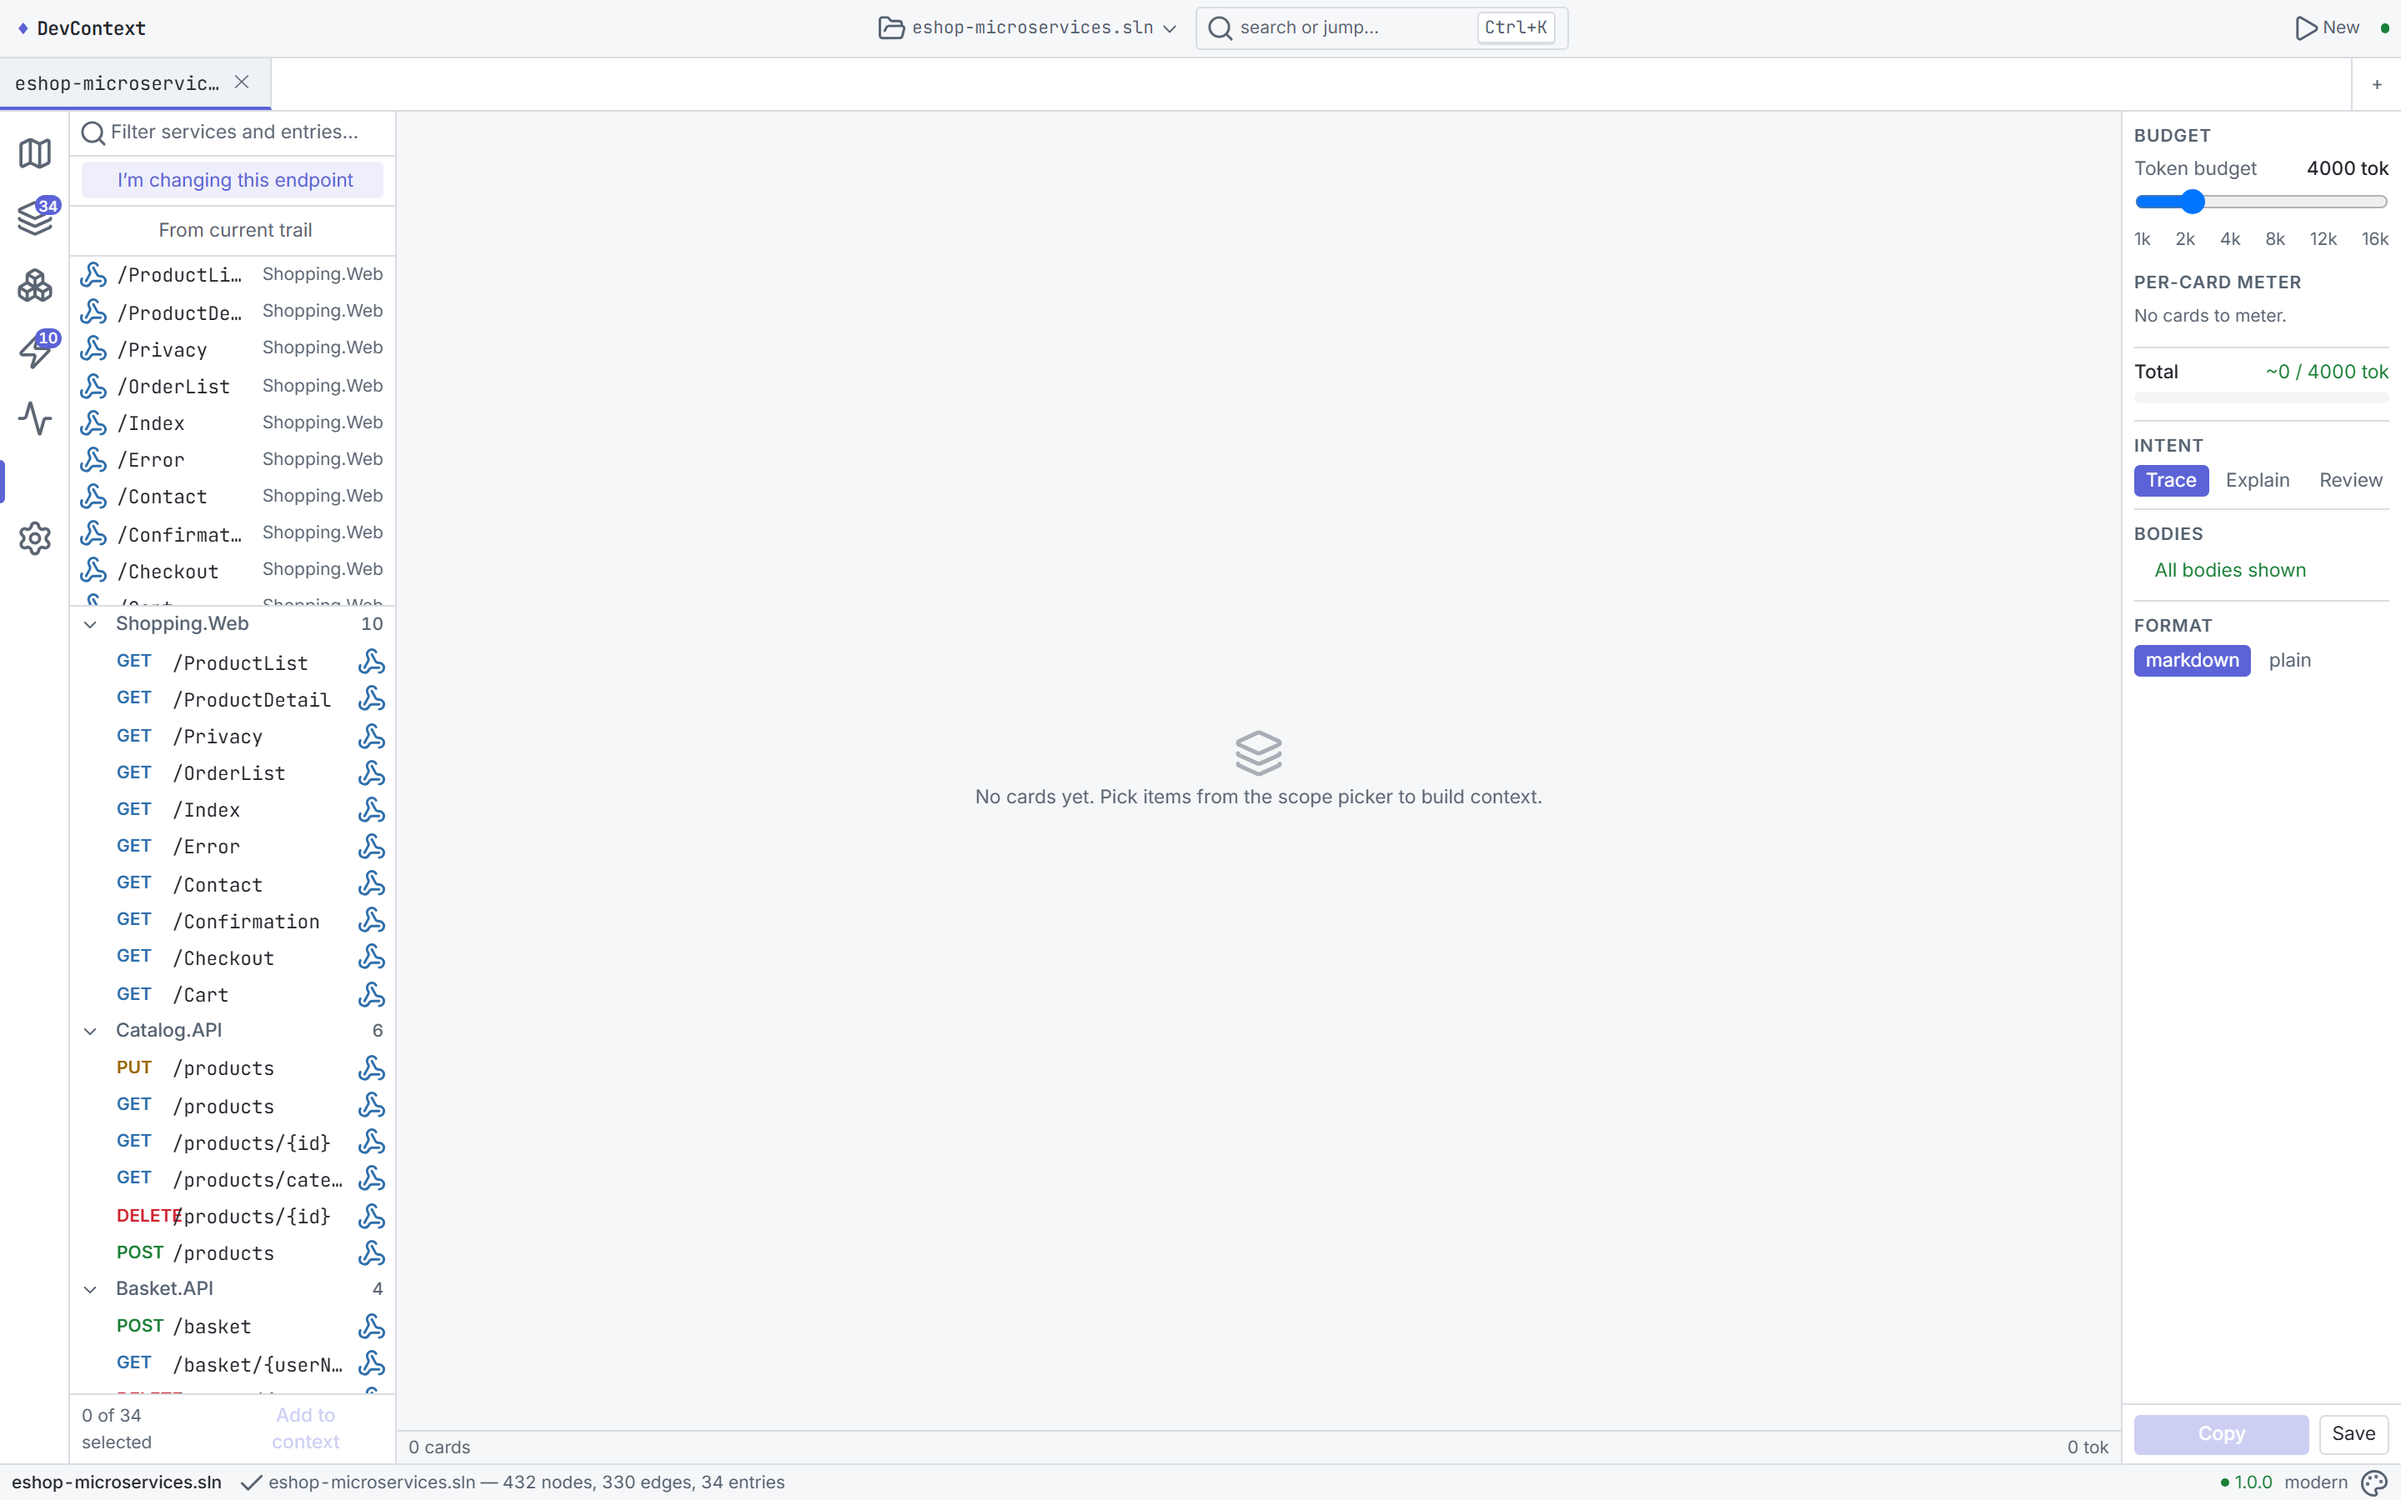
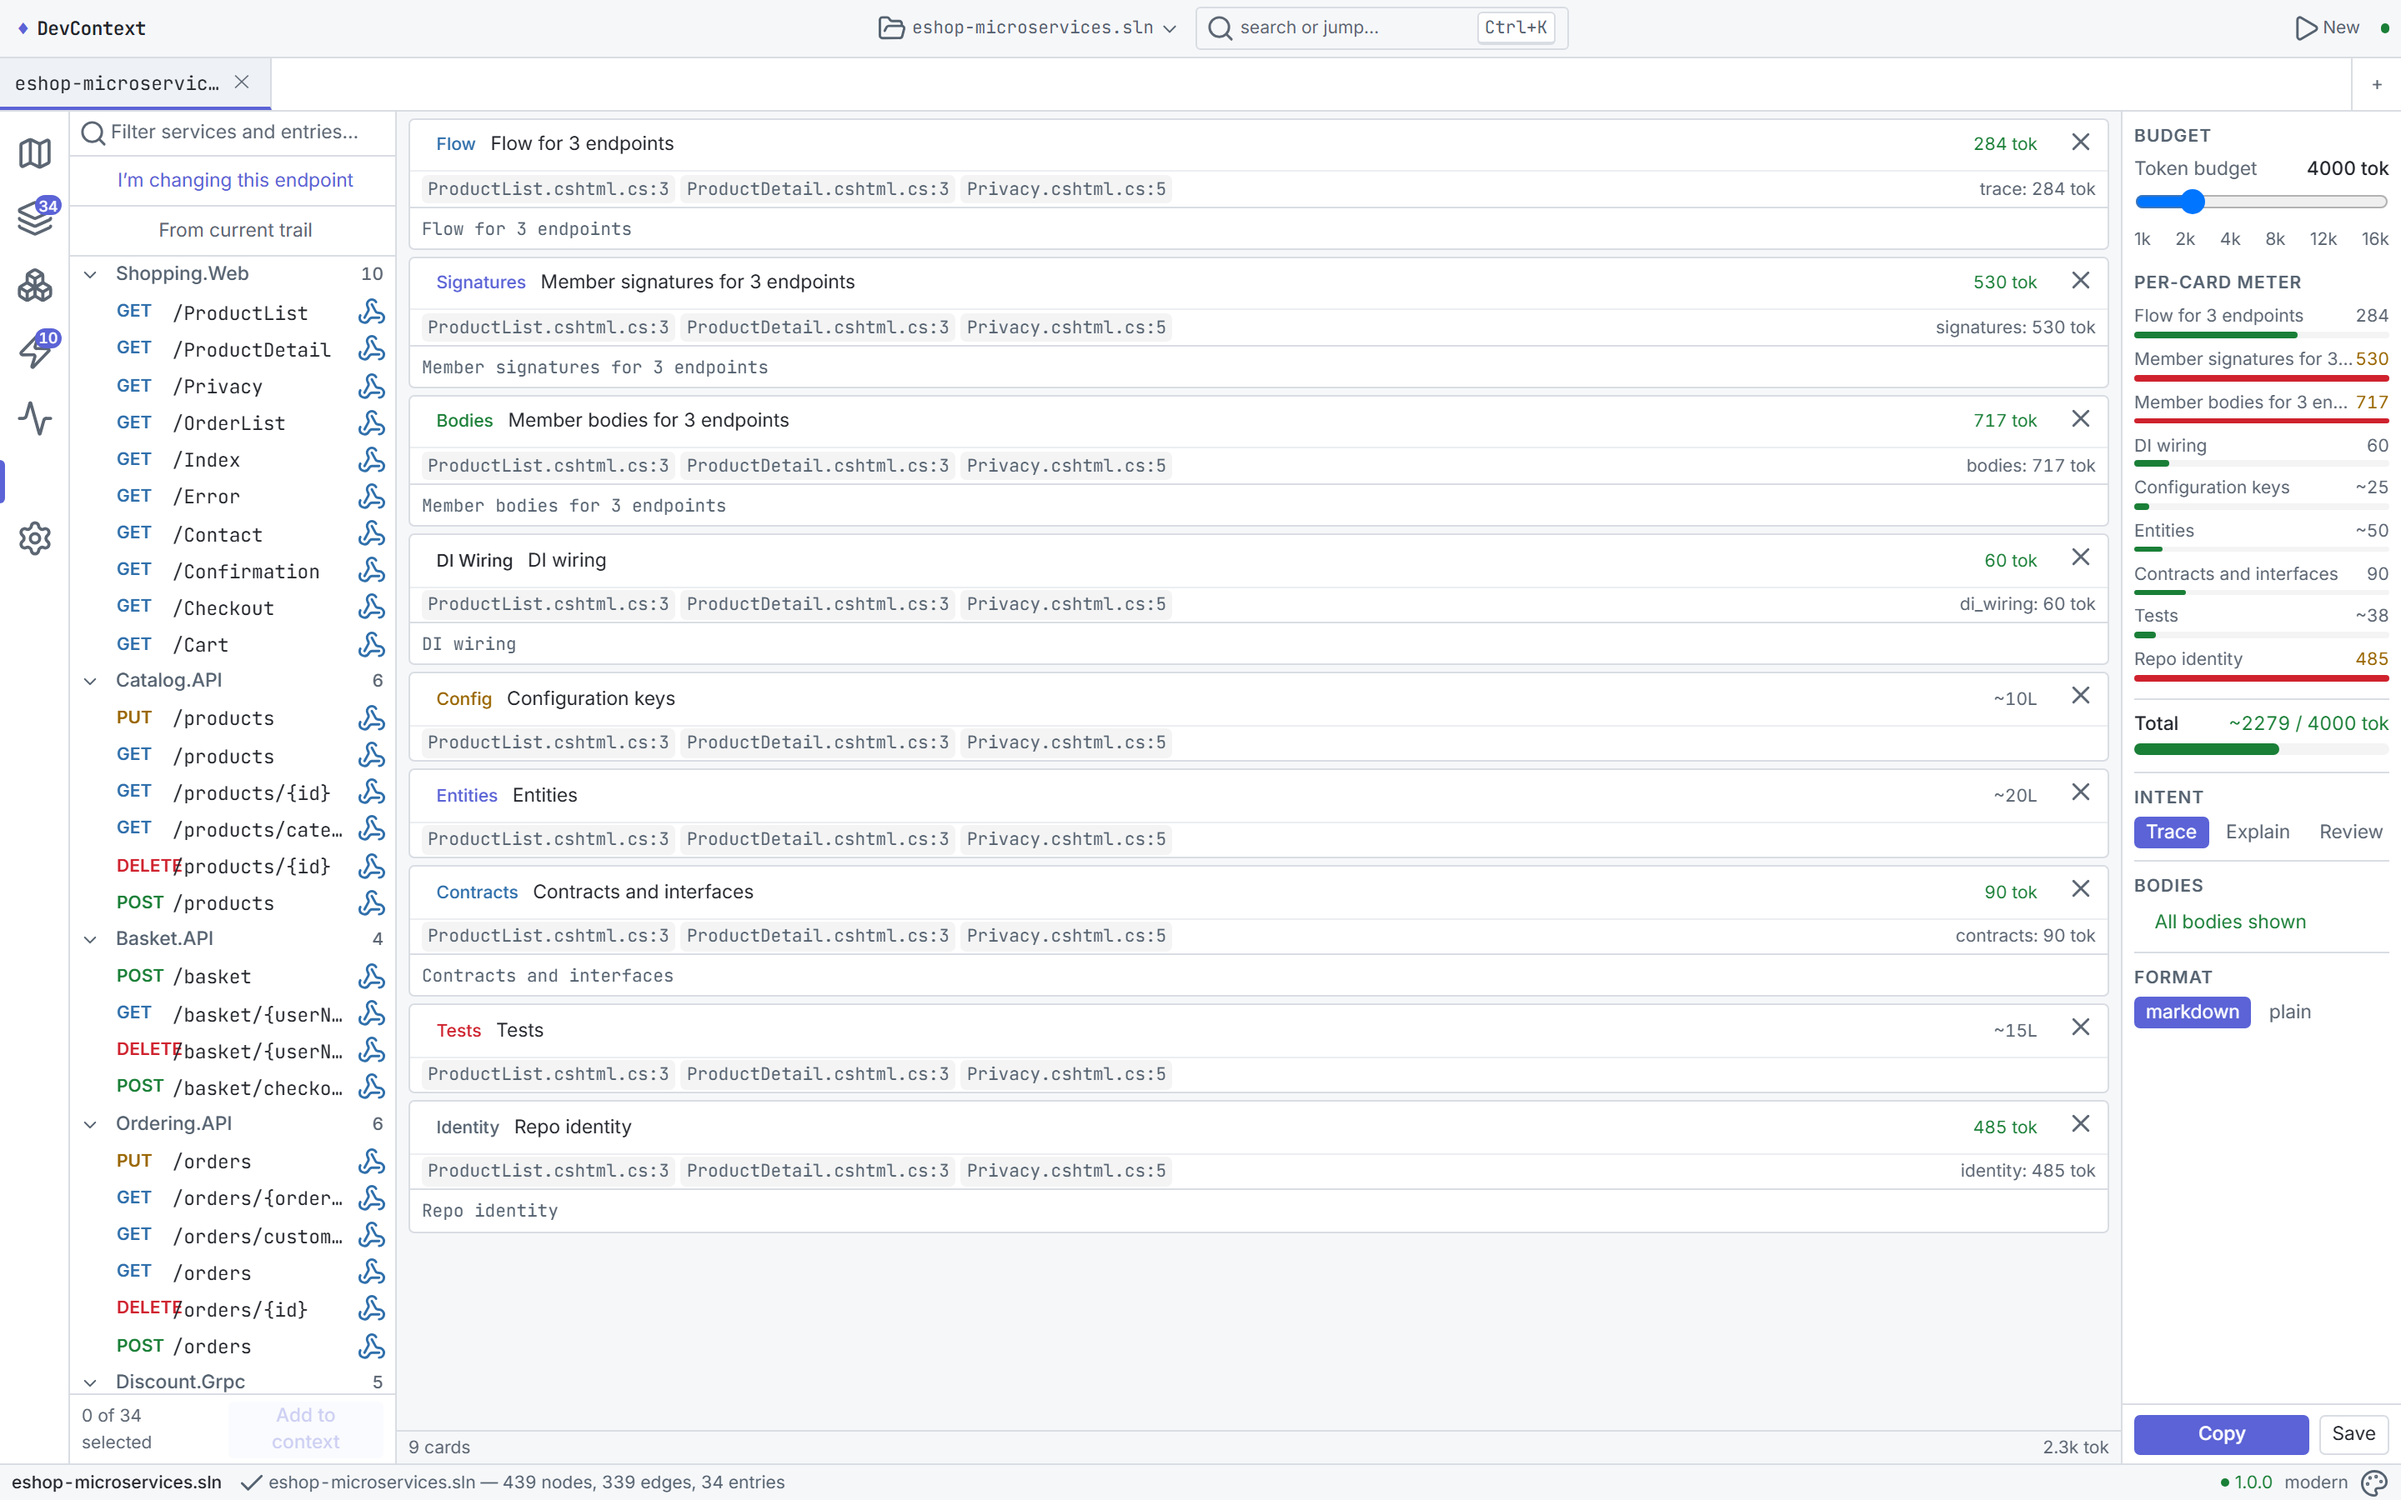
docs(g9): refresh README screenshots to T4 state
All 12 shots re-captured against the dogfood eShop repo (light/modern theme):
identity header on Home, per-section provenance + per-card token meter in
Context Studio, 24-tool MCP page. Three needed a targeted retake past the
capture script: Context Studio/Export screenshotted an empty composition
(the script selected scope rows but never clicked Add to context), and the
start shot captured the last-visited route instead of the start hero (fresh
browser context fixes it).

Claude-Session: https://claude.ai/code/session_01Voq9PACTGDf6ivSWYnpbmx

diff --git a/docs/screenshots/README.md b/docs/screenshots/README.md
@@ -1,6 +1,6 @@
 # README Screenshot Capture
 
-**Date:** 2026-07-10
+**Date:** 2026-07-16
 **Target repo:** `C:\Users\shahi\source\repos\run-aspnetcore-microservices\src\eshop-microservices.sln`
 
 | # | Screenshot | Status |
